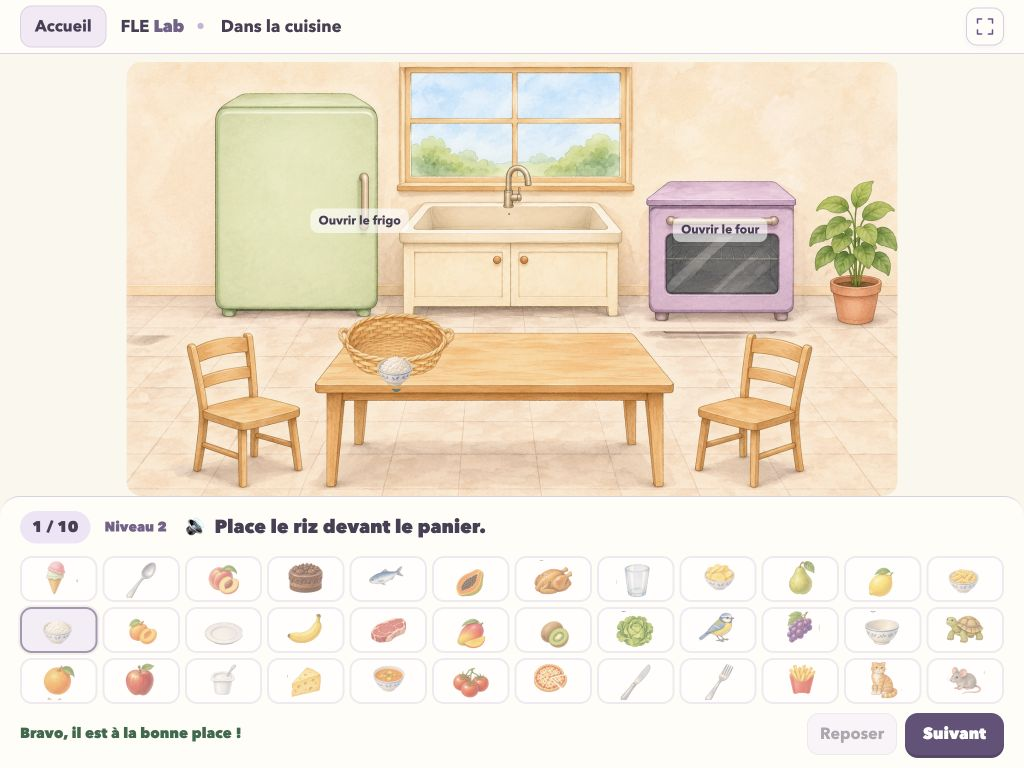
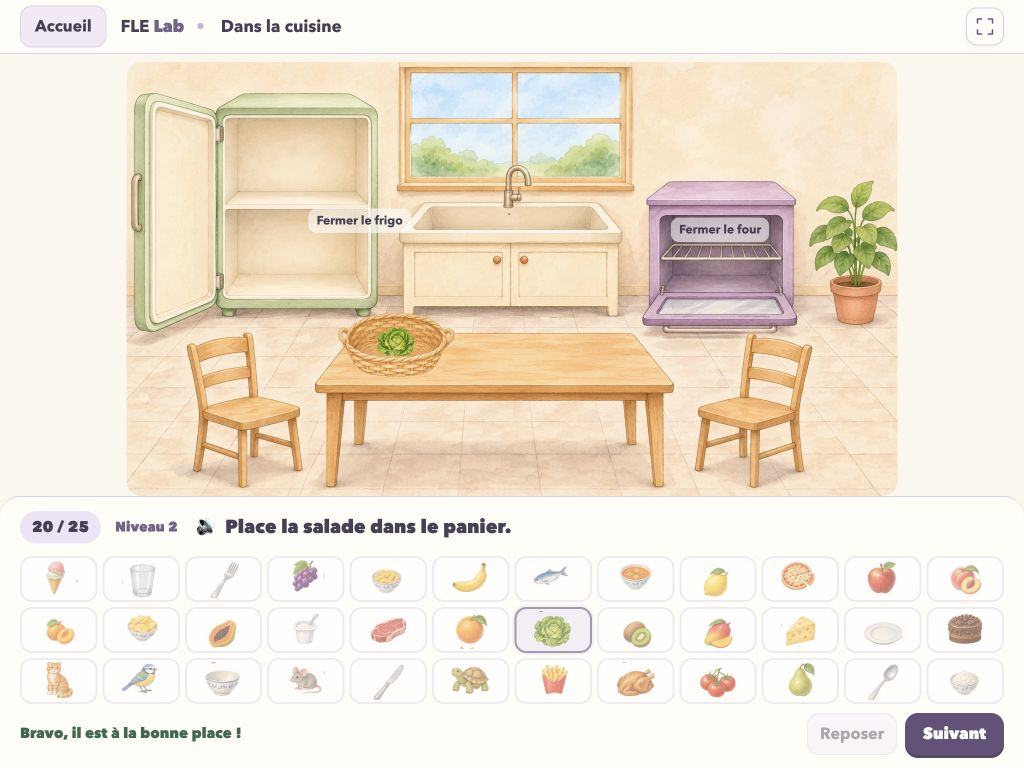
Passer le niveau 2 de la cuisine à 25 consignes incluant les seize nouveaux aliments

diff --git a/la-cuisine/index.html b/la-cuisine/index.html
@@ -1,10 +1,10 @@
 <!doctype html>
 <html lang="fr">
-<head><meta charset="utf-8"><meta name="viewport" content="width=device-width,initial-scale=1,viewport-fit=cover"><meta name="theme-color" content="#75618b"><title>Dans la cuisine · FLE Lab</title><link rel="stylesheet" href="style.css?v=3"></head>
+<head><meta charset="utf-8"><meta name="viewport" content="width=device-width,initial-scale=1,viewport-fit=cover"><meta name="theme-color" content="#75618b"><title>Dans la cuisine · FLE Lab</title><link rel="stylesheet" href="style.css?v=4"></head>
 <body>
 <header><button id="home-button" class="quiet" hidden>Accueil</button><span class="brand">FLE <b>Lab</b><span class="dot">•</span> Dans la cuisine</span><span class="header-actions" data-fullscreen-slot></span></header>
 <main id="home">
- <div class="welcome"><span class="eyebrow">J’écoute, je comprends, je place</span><h1>Dans la cuisine</h1><p>Place les objets au bon endroit.<br>Choisis ton niveau !</p><div class="level-choices"><button id="start" class="level-choice"><strong>Niveau 1</strong><span>Les premiers mots</span></button><button id="start-2" class="level-choice"><strong>Niveau 2</strong><span>Les mêmes mots + 16 aliments</span></button></div><p class="small">10 consignes · À ton rythme</p></div>
+ <div class="welcome"><span class="eyebrow">J’écoute, je comprends, je place</span><h1>Dans la cuisine</h1><p>Place les objets au bon endroit.<br>Choisis ton niveau !</p><div class="level-choices"><button id="start" class="level-choice"><strong>Niveau 1</strong><span>Les premiers mots · 10 consignes</span></button><button id="start-2" class="level-choice"><strong>Niveau 2</strong><span>16 aliments en plus · 25 consignes</span></button></div><p class="small">Écoute, place et vérifie · À ton rythme</p></div>
  <img src="assets/cuisine.png" alt="Une cuisine avec un frigo et un four ouverts, un évier, une table, deux chaises, une fenêtre et une plante." class="home-art">
 </main>
 <main id="game" hidden>
@@ -27,6 +27,6 @@
   <div class="action-line"><p id="feedback" role="status">Choisis un objet, puis touche sa place dans la cuisine.</p><div class="actions"><button id="cancel" class="quiet">Reposer</button><button id="check" class="primary" disabled>Vérifier</button><button id="next" class="primary" hidden>Suivant</button></div></div>
  </section>
 </main>
-<dialog id="finish"><div class="finish-inner"><span class="eyebrow">Bravo !</span><h2>La cuisine est bien rangée !</h2><p>Tu as terminé les dix consignes.</p><button id="restart" class="primary">Une nouvelle partie</button><button id="finish-home" class="quiet">Revenir à l’accueil</button></div></dialog>
-<script src="../fullscreen.js"></script><script type="module" src="app.js?v=3"></script>
+<dialog id="finish"><div class="finish-inner"><span class="eyebrow">Bravo !</span><h2>La cuisine est bien rangée !</h2><p id="finish-message">Tu as terminé la partie.</p><button id="restart" class="primary">Une nouvelle partie</button><button id="finish-home" class="quiet">Revenir à l’accueil</button></div></dialog>
+<script src="../fullscreen.js"></script><script type="module" src="app.js?v=4"></script>
 </body></html>

diff --git a/la-cuisine/model.js b/la-cuisine/model.js
@@ -1,10 +1,11 @@
-import {OBJECTS,ZONES,MISSIONS} from './data.js?v=3';
+import {OBJECTS,ZONES,MISSIONS} from './data.js?v=4';
 export {OBJECTS,ZONES,MISSIONS};
 export const getObject=id=>OBJECTS.find(o=>o.id===id);
 export const getObjects=(level=1)=>OBJECTS.filter(o=>(o.level||1)<=level);
 export const getZone=id=>ZONES.find(z=>z.id===id);
 export function shuffle(list,random=Math.random){const a=[...list];for(let i=a.length-1;i>0;i--){const j=Math.floor(random()*(i+1));[a[i],a[j]]=[a[j],a[i]];}return a;}
 export function newRound(random=Math.random,level=1){
+ const count=level===2?25:10;
  const objects=getObjects(level),allowed=new Set(objects.map(o=>o.id));
  const missions=MISSIONS.filter(m=>allowed.has(m.object));
  const choose=list=>list[Math.floor(random()*list.length)];
@@ -13,8 +14,8 @@ export function newRound(random=Math.random,level=1){
  required.push(choose(missions.filter(m=>getZone(m.zone).label.startsWith('devant ')&&m.zone!=='panier-devant'&&!required.some(r=>r.object===m.object))));
  const used=new Set(required.map(m=>m.object));
  const rest=[];
- if(level===2){const needed=5-required.filter(m=>getObject(m.object).level===2).length;for(const o of shuffle(objects.filter(o=>o.level===2&&!used.has(o.id)),random).slice(0,needed)){used.add(o.id);rest.push(choose(missions.filter(m=>m.object===o.id)));}}
- const extra=shuffle(objects.filter(o=>!used.has(o.id)),random).slice(0,10-required.length-rest.length);
+ if(level===2){for(const o of shuffle(objects.filter(o=>o.level===2&&!used.has(o.id)),random)){used.add(o.id);rest.push(choose(missions.filter(m=>m.object===o.id)));}}
+ const extra=shuffle(objects.filter(o=>!used.has(o.id)),random).slice(0,count-required.length-rest.length);
  rest.push(...extra.map(o=>choose(missions.filter(m=>m.object===o.id))));
  return shuffle([...required,...rest],random);
 }

diff --git a/la-cuisine/app.js b/la-cuisine/app.js
@@ -1,4 +1,4 @@
-import {ZONES,newRound,getObject,getObjects,getZone,check,snap,shuffle} from './model.js?v=3';
+import {ZONES,newRound,getObject,getObjects,getZone,check,snap,shuffle} from './model.js?v=4';
 const $=id=>document.getElementById(id);
 let rounds=[],index=0,level=1,selected=null,placement=null,solved=false,doors={frigo:false,four:false};
 let speaking=null,audioGeneration=0;
@@ -68,6 +68,6 @@ $('check').onclick=()=>{
  if(result!=='correct'){feedback('Essaie encore. Écoute la consigne et change l’objet ou sa place.','error');return;}
  solved=true;stopAudio();feedback('Bravo, il est à la bonne place !','success');$('check').hidden=true;$('next').hidden=false;$('next').textContent=index===rounds.length-1?'Terminer':'Suivant';renderPlacement();
 };
-$('next').onclick=()=>{if(index===rounds.length-1){stopAudio();$('finish').showModal();$('restart').focus();}else{index++;renderMission();$('listen').focus();}};
+$('next').onclick=()=>{if(index===rounds.length-1){stopAudio();$('finish-message').textContent='Tu as terminé les '+rounds.length+' consignes.';$('finish').showModal();$('restart').focus();}else{index++;renderMission();$('listen').focus();}};
 $('start').onclick=()=>start(1);$('start-2').onclick=()=>start(2);$('restart').onclick=()=>start(level);$('home-button').onclick=home;$('finish-home').onclick=home;
 document.addEventListener('visibilitychange',()=>{if(document.hidden)stopAudio();});

diff --git a/la-cuisine/README.md b/la-cuisine/README.md
@@ -1,9 +1,9 @@
 # Dans la cuisine — deux niveaux
 
-Sélectionner un objet puis toucher sa destination. Vérifier, corriger librement et passer à la suite. Dix objets distincts par partie, sans chronomètre ni vies. Les poignées ouvrent et ferment le frigo et le four.
+Sélectionner un objet puis toucher sa destination. Vérifier, corriger librement et passer à la suite. Dix objets distincts par partie au niveau 1, vingt-cinq au niveau 2, sans chronomètre ni vies. Les poignées ouvrent et ferment le frigo et le four.
 
 - Niveau 1 : les vingt éléments initiaux (couverts, vaisselle, aliments et quatre animaux).
-- Niveau 2 : les vingt éléments initiaux et seize nouveaux aliments : kiwi, mangue, papaye, citron, abricot, pêche, riz, pâtes, frites, yaourt, glace, poisson, chips, soupe, raisin, pizza. Chaque série comprend au moins cinq nouveaux aliments.
+- Niveau 2 : les vingt éléments initiaux et seize nouveaux aliments : kiwi, mangue, papaye, citron, abricot, pêche, riz, pâtes, frites, yaourt, glace, poisson, chips, soupe, raisin, pizza. Chaque série du niveau 2 contient les seize nouveaux aliments et neuf éléments du niveau 1.
 
 Le panier fixe occupe la gauche de la table. Deux zones distinctes permettent de placer un aliment dans son intérieur ou devant. Le fond du panier et sa paroi avant sont deux couches de la même illustration, afin de masquer naturellement le bas de son contenu. La zone « sur la table » se trouve sur la partie droite libre. Aucun meuble n’a été déplacé.
 
@@ -13,7 +13,7 @@ Les zones calent les objets sur une surface, indépendamment de la bonne répons
 
 Audio provisoire : voix française SpeechSynthesis du navigateur. Les essais d’enregistrement local ont produit des fichiers sans échantillons ; aucun enregistrement naturel n’est donc revendiqué. L’inventaire des futures phrases est conservé dans le dossier de préparation du projet.
 
-Validation : neuf tests couvrent les destinations, les restrictions, les deux niveaux, les erreurs, les séries, les deux zones du panier et le parcours applicatif en DOM simulé. Le navigateur intégré a également parcouru les dix consignes du niveau 2 jusqu’à l’écran de fin. Un placement par clic dans la scène a été vérifié. Contrôles de mise en page à 1024×768, 768×1024 et 390×844 : tous les éléments et commandes tiennent à l’écran, sans débordement horizontal. Cela ne remplace pas un essai tactile sur un iPad physique. Capture dans `docs/niveau-2-panier.jpg`.
+Validation : neuf tests couvrent les destinations, les restrictions, les deux niveaux, les erreurs, les séries, les deux zones du panier et le parcours applicatif en DOM simulé. Le navigateur intégré a également parcouru les vingt-cinq consignes du niveau 2 jusqu’à l’écran de fin. Un placement par clic dans la scène a été vérifié. Contrôles de mise en page à 1024×768, 768×1024 et 390×844 : tous les éléments et commandes tiennent à l’écran, sans débordement horizontal. Cela ne remplace pas un essai tactile sur un iPad physique. Capture dans `docs/niveau-2-panier.jpg`.
 
 Le mode classe « À toi de placer ! » a été proposé et reste à développer séparément ; les deux choix actuels correspondent aux niveaux du mode autonome.
 
